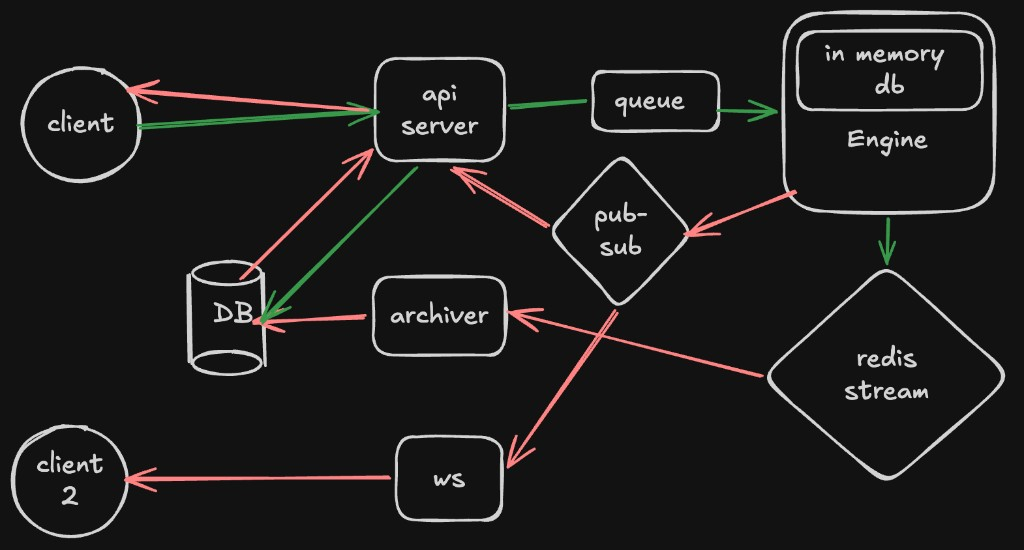
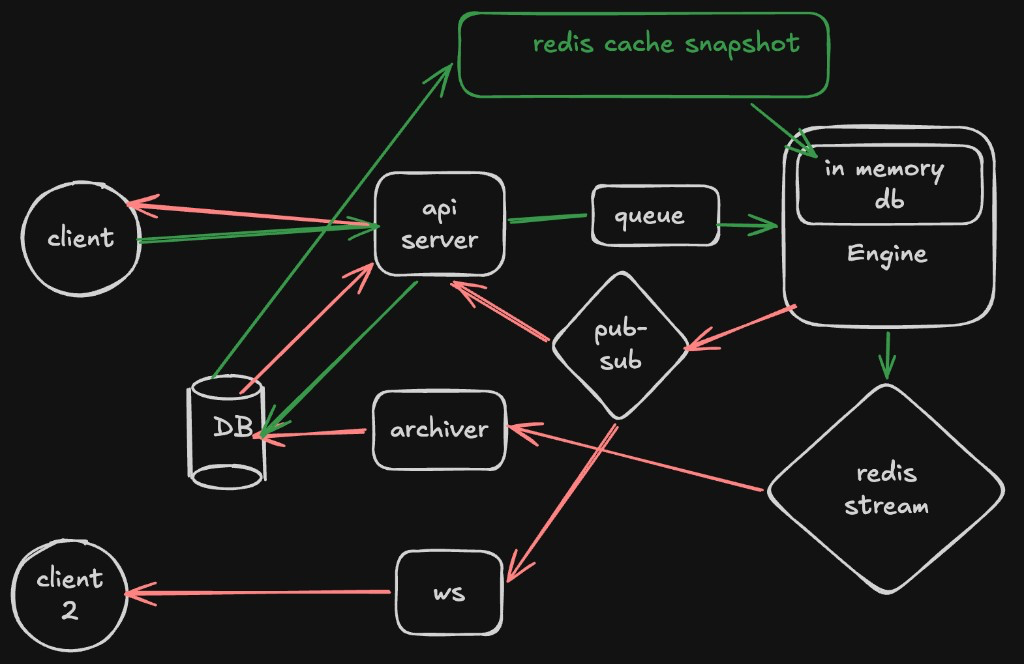
feat: add updated architecture with snapshot

diff --git a/README.md b/README.md
@@ -6,13 +6,35 @@ Opinion-market exchange monorepo: API, matching engine, WebSocket fan-out, archi
 
 ![Architecture](docs/architecture.png)
 
+HTTP for mutations, an in-memory matching engine for the book, Redis for queue / pub-sub / stream / snapshot, WebSockets for live fans, and an archiver writing Postgres.
+
+```
+client ──HTTP──► api-server ──queue──► engine (in-memory db)
+                     │                    │
+                     │                    ├─ pub-sub ──► api-server (request reply)
+                     │                    ├─ pub-sub ──► ws ──► clients
+                     │                    ├─ redis stream ──► archiver ──► DB
+                     │                    └─ redis snapshot (engine hydrate)
+                     └── DB (auth, markets, reads)
+```
+
 | Piece | Role |
 | --- | --- |
-| **api-server** | Auth + HTTP API; enqueues engine work |
-| **engine** | In-memory orderbook / balances; publishes results |
-| **ws** | Live market updates to clients (Redis pub/sub) |
-| **archiver** | Consumes Redis stream → Postgres |
+| **api-server** | Auth + HTTP API; enqueues engine work; waits on per-request pub/sub reply |
+| **engine** | In-memory orderbook / balances; matches orders; publishes results |
+| **ws** | Live market updates to clients (`engine:ws` pub/sub) |
+| **archiver** | Consumes `engine:archiver` stream → Postgres |
 | **web** | React (Vite) frontend |
+
+**Redis contracts**
+
+| Kind | Key / channel | Purpose |
+| --- | --- | --- |
+| Queue (list) | `api_engine_queue` | api → engine requests |
+| Pub/sub | `<reqId>` | engine → api request–reply |
+| Pub/sub | `engine:ws` | engine → ws live market updates |
+| Stream | `engine:archiver` | engine → archiver persistence log |
+| Snapshot | `engine:snapshot` | engine crash recovery / hydrate |
 
 ## Apps
 
